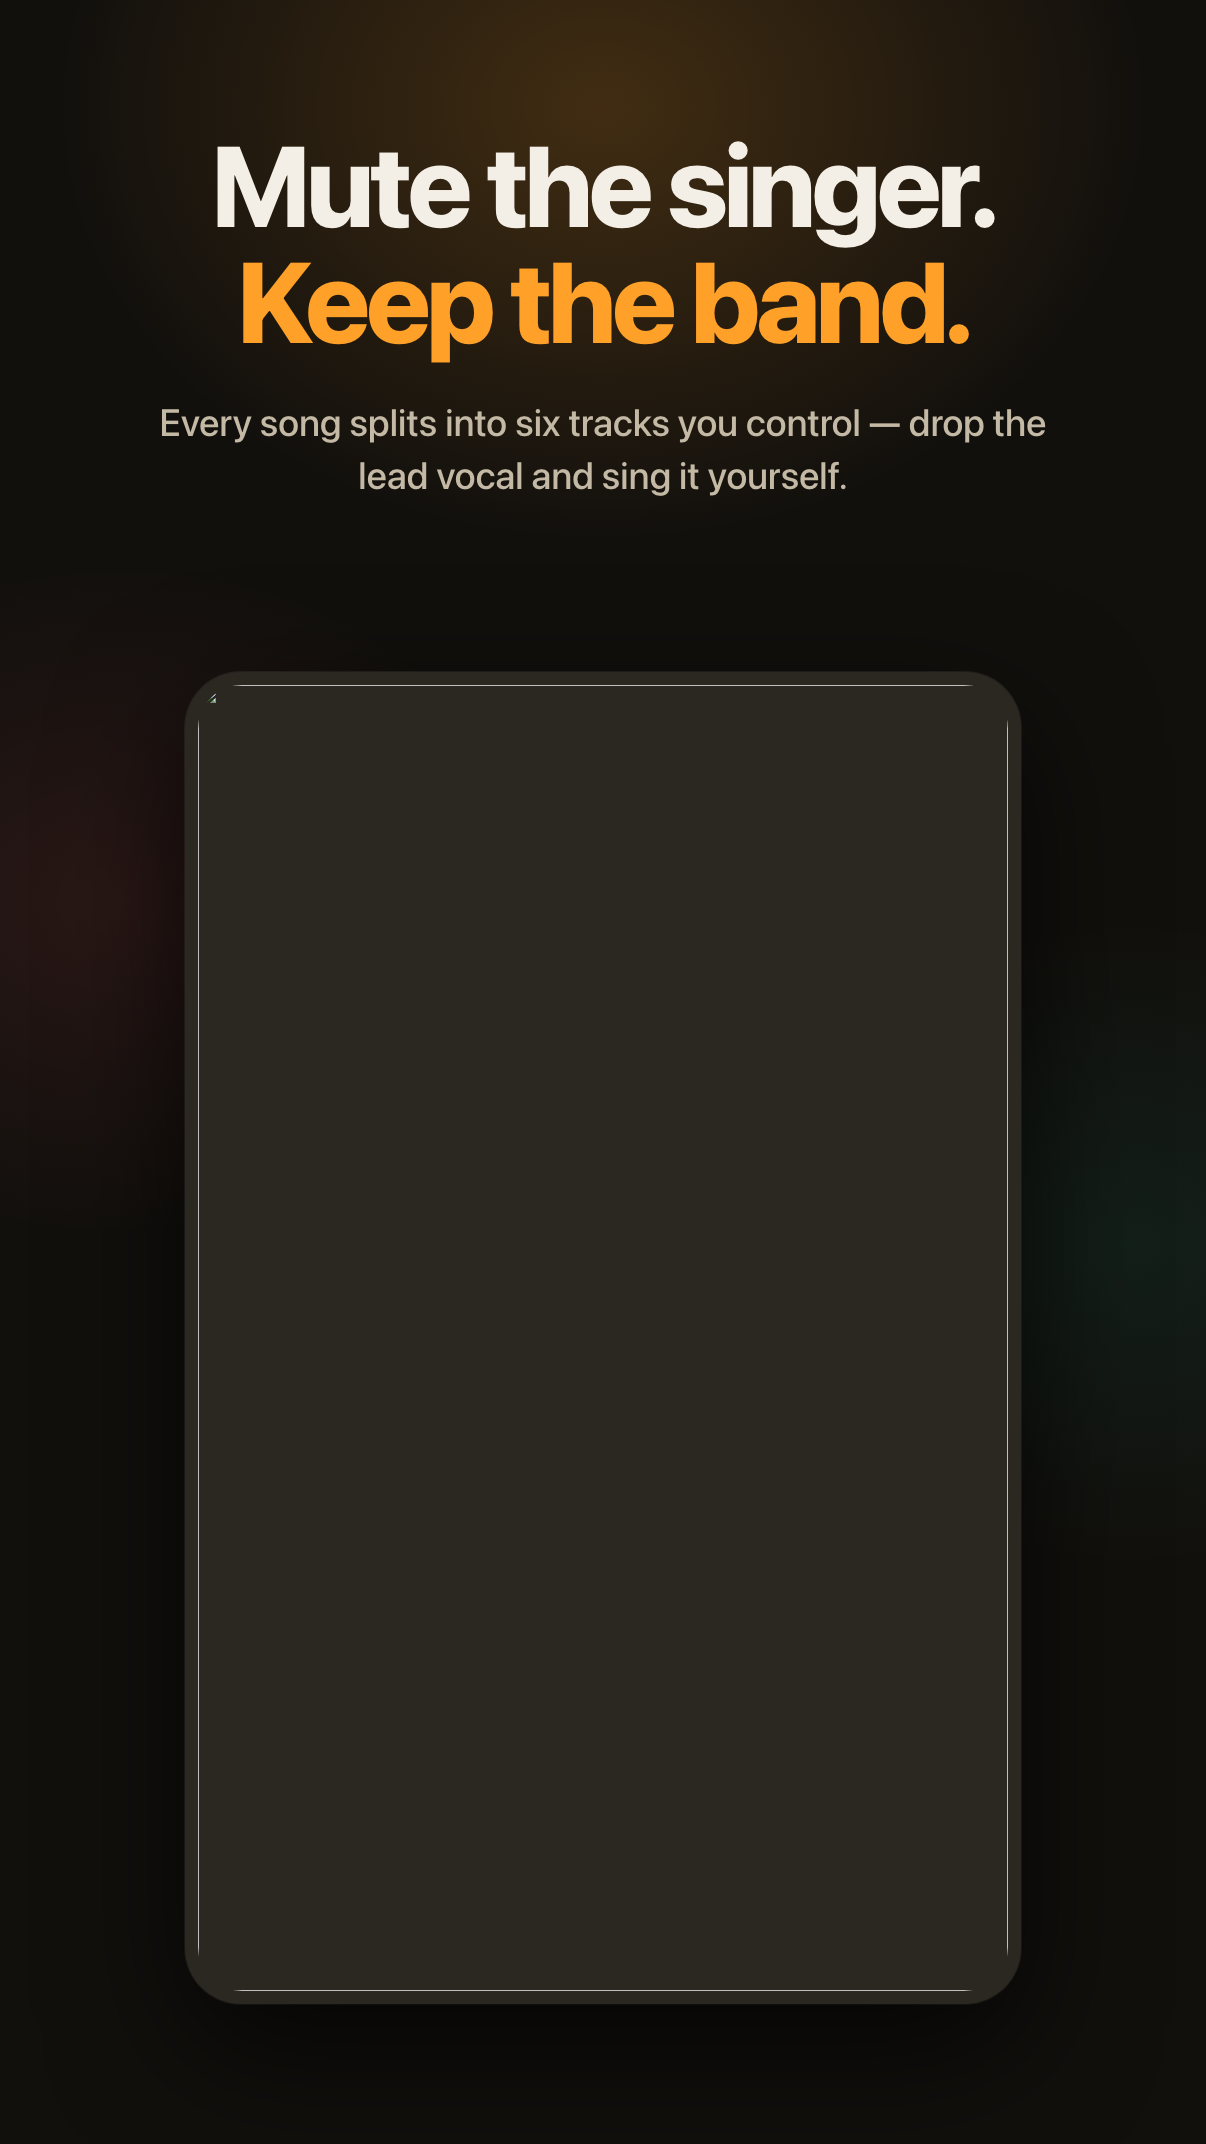
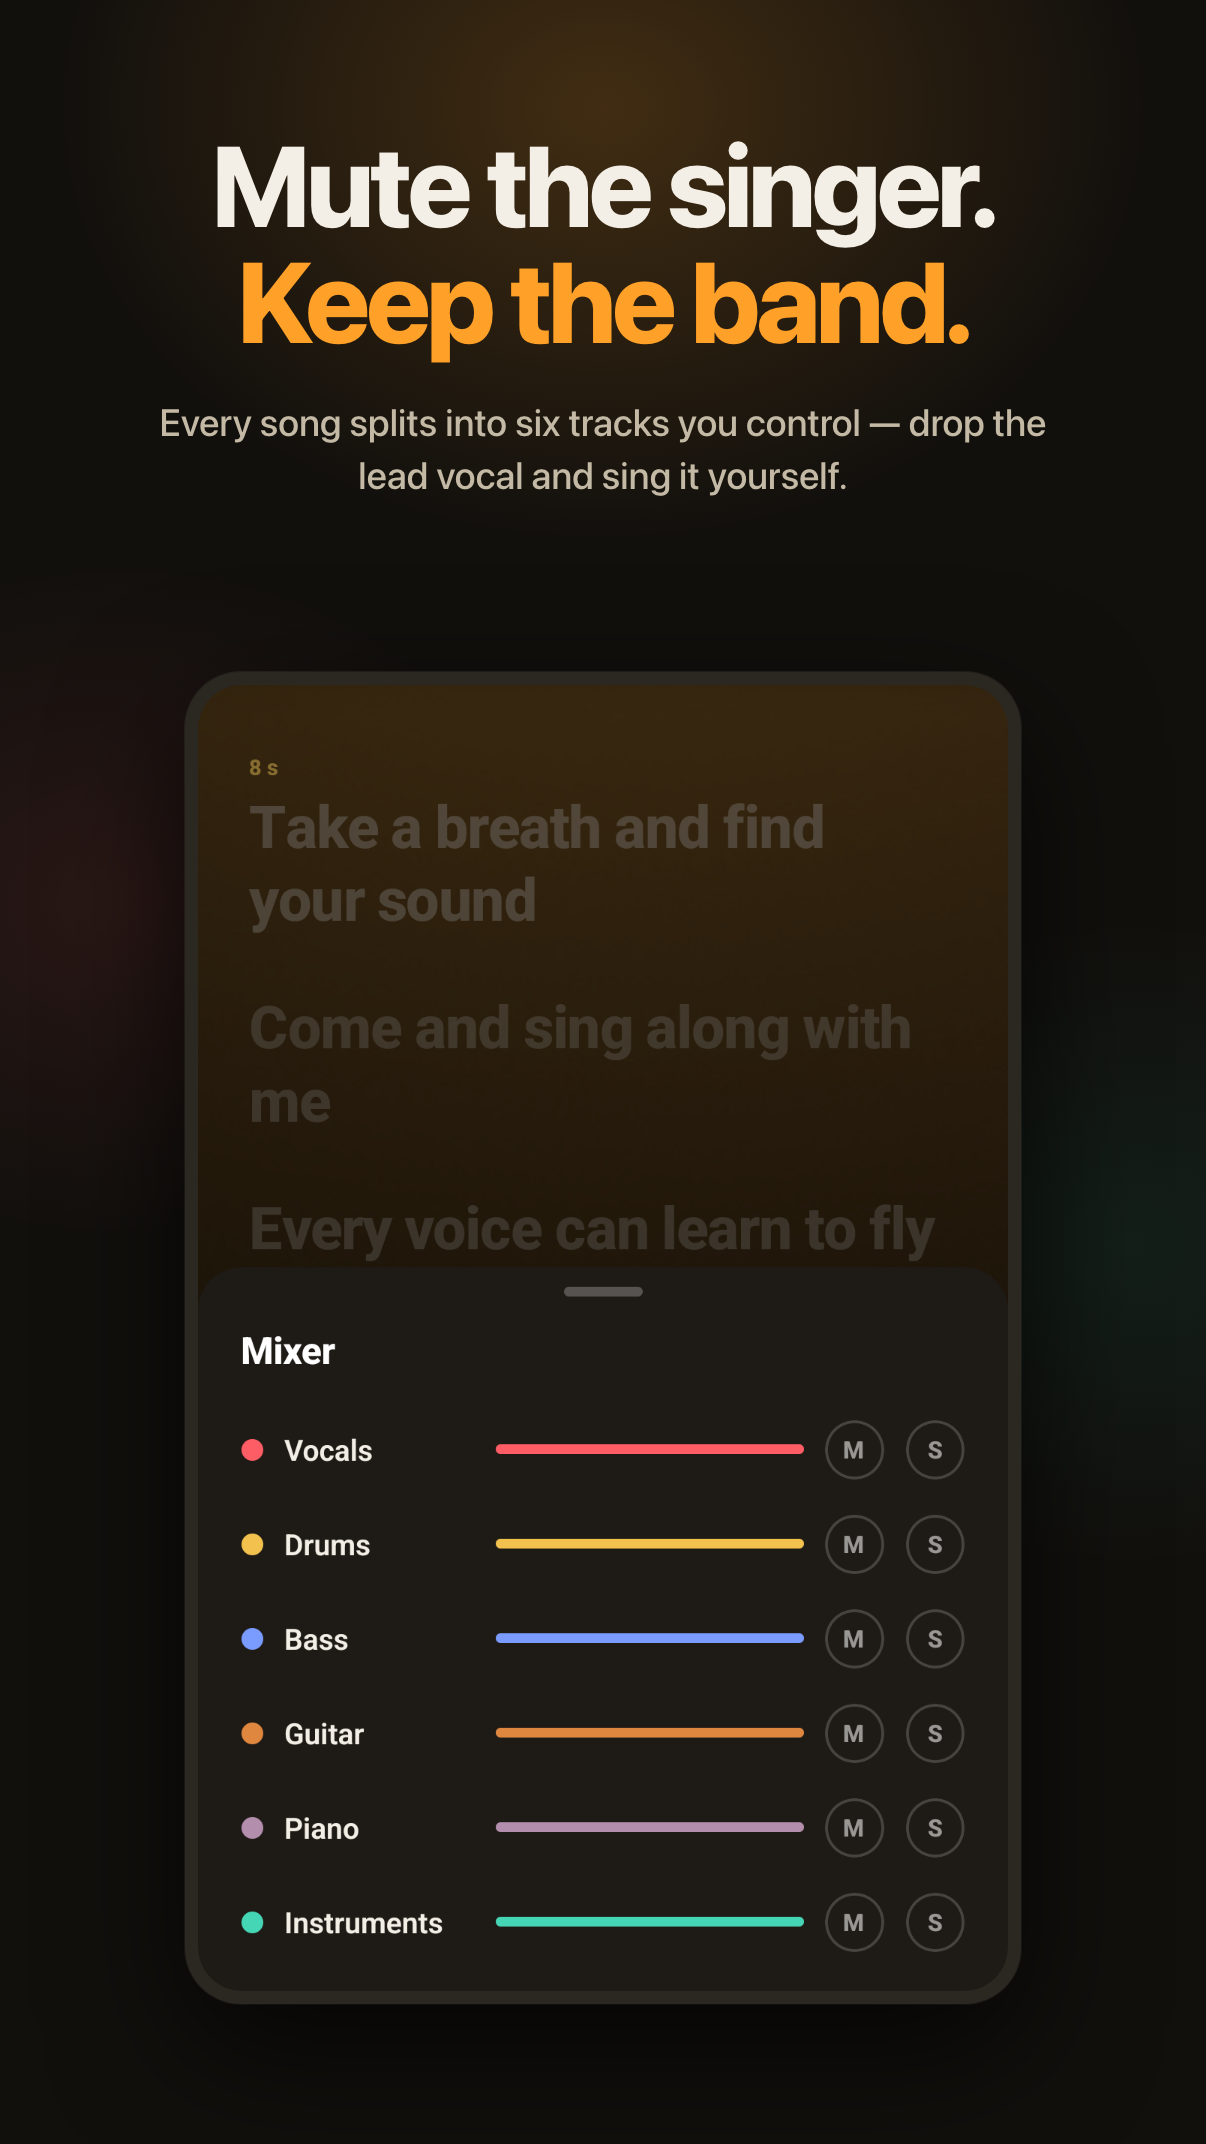
The poster actually contains the poster
The template named its own placeholder token in a comment, so it appeared
twice. A plain string replace swaps the first match only: the capture went
into the comment, the img src kept the literal token, and the page rendered a
framed empty rectangle — which looks like a deliberate minimal design rather
than a failure, which is how it survived a dimensions-and-filesize check and
reached the store assets.

The comment no longer spells the token, and the build refuses to run unless it
appears exactly once, naming the count it found. Chrome also gets
--virtual-time-budget, because a data URI this large can otherwise miss the
screenshot and produce the same empty frame for an entirely different reason.

diff --git a/docs/play-assets/poster.tmpl.html b/docs/play-assets/poster.tmpl.html
@@ -3,8 +3,14 @@
 <!--
   The first store screenshot: a poster, not a capture. Rendered at 1206x2144
   (exactly 9:16) by scripts/make-play-assets.sh, which inlines the hero capture
-  where __SHOT_B64__ is — so the screenshot itself lives in raw/ only, never
-  base64'd into the repo.
+  into the placeholder in the img src below — so the screenshot itself lives in
+  raw/ only, never base64'd into the repo.
+
+  That placeholder token must appear exactly ONCE in this file. It used to be
+  named here in prose too, and a plain string replace swaps only the first
+  match: the capture went into this comment, the img kept the literal token,
+  and the poster rendered with an empty phone. The script now refuses to build
+  if the count is not 1.
 -->
 <style>
   html,body{margin:0;padding:0}
